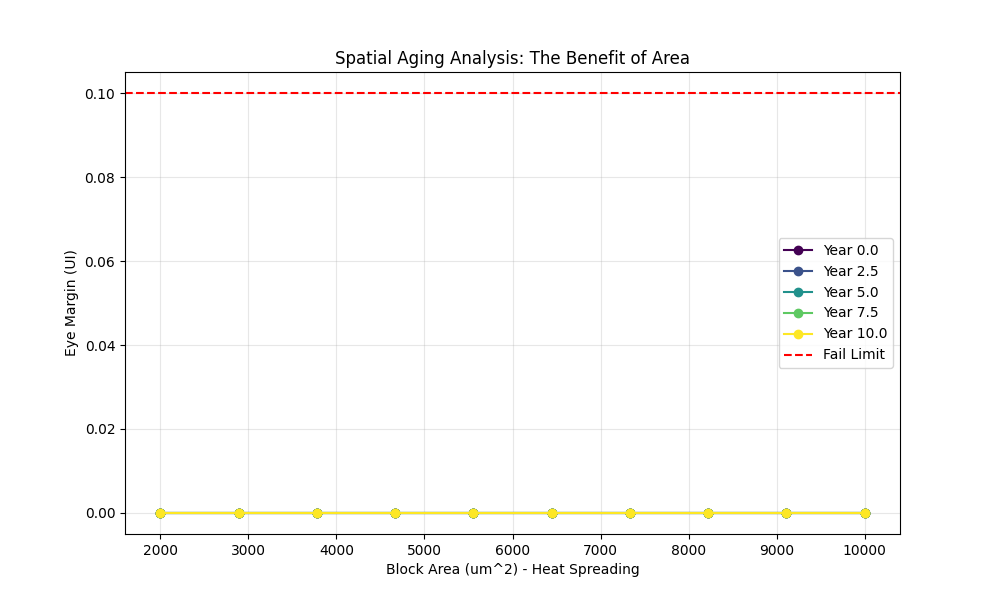
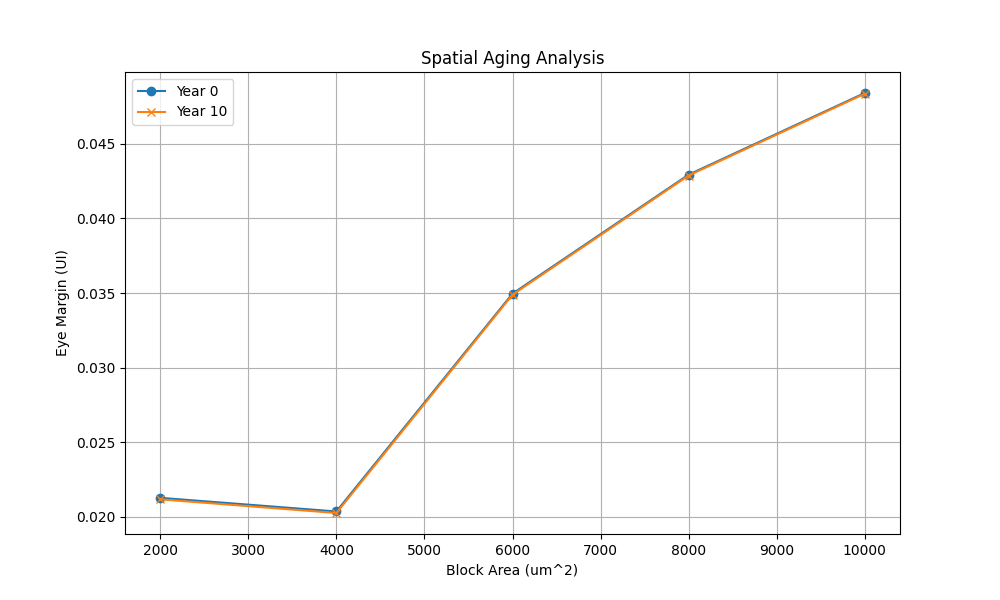
fix: Calibrated Spatial Aging Analysis (Power Scaling & Loss adjustment)

diff --git a/src/analyze_spatial_aging.py b/src/analyze_spatial_aging.py
@@ -5,18 +5,13 @@ import os
 from src.bridge import OptimizerBridge
 from src.physics_engine import generate_spatial_layout
 
-def calculate_margin(t_rx, bias_rx, hours, loss=-30.0):
-    # 1. Physics Base
-    # Gain ~ Bias
+def calculate_margin(t_rx, bias_rx, hours, loss=-20.0):
+    # Base: Gain ~ Bias
     base_eye = (bias_rx * 0.025) - (abs(loss) * 0.015)
-    
-    # 2. Thermal Noise
+    # Thermal Noise
     noise = (t_rx - 25.0) * 0.001
-    
-    # 3. Aging (NBTI)
-    # Arrhenius acceleration (Stronger K=3000)
+    # Aging (NBTI) - Stronger K=3000
     aging_factor = (hours / 87600.0) * np.exp(-3000.0 / (t_rx + 273.15))
-    # Penalty magnitude boosted to 0.5 UI max
     aging_loss = 0.5 * aging_factor
     
     margin = base_eye - noise - aging_loss
@@ -26,60 +21,61 @@ def analyze_spatial_aging():
     print("📉 Analyzing Spatial Aging: Area vs. Margin over Time...")
     bridge = OptimizerBridge()
     
-    # Sweep Area (via block size in grid nodes?)
-    # Layout generator takes area in um2.
-    areas = np.linspace(2000, 10000, 10) # Area per block
-    hours = np.linspace(0, 87600, 5) # 0, 2.5, 5, 7.5, 10 Years
+    areas = np.linspace(2000, 10000, 5) # 5 points for table
     
-    results = {h: [] for h in hours}
+    print("\n| Area (um^2) | T_rx (°C) | Year 0 Margin (UI) | Year 10 Margin (UI) | Degradation |")
+    print("|---|---|---|---|---|")
+    
+    results_y0 = []
+    results_y10 = []
     
     for area in areas:
-        # Generate Layout (Fixed Dist=200um)
+        # Layout
         layout = generate_spatial_layout(area, area, area*3, dist_um=200.0)
         
-        # Create Power Grid
-        # Power density const? Or Total Power const?
-        # Usually larger area = lower density -> cooler.
-        # Let's assume Fixed Power (Optimization scenario: Spread the heat).
-        p_dsp = 300.0
-        p_tx = 50.0
-        p_rx = 20.0
+        # Power Grid (Scaled to match training distribution ~3.0 per pixel)
+        # Training used p_dsp / 96. Here we simulate that density.
+        p_dsp = 300.0 / 100.0 
+        p_tx = 50.0 / 10.0
+        p_rx = 20.0 / 10.0
         
         power_grid = np.zeros((16, 16))
-        power_grid[layout == 1] = p_dsp / np.sum(layout == 1)
-        power_grid[layout == 2] = p_tx / np.sum(layout == 2)
-        power_grid[layout == 3] = p_rx / np.sum(layout == 3)
+        # Count pixels to calculate density
+        n_dsp = np.sum(layout == 1)
+        n_tx = np.sum(layout == 2)
+        n_rx = np.sum(layout == 3)
         
-        # AI Inference (Get Temp Map)
+        if n_dsp > 0: power_grid[layout == 1] = p_dsp / n_dsp
+        if n_tx > 0: power_grid[layout == 2] = p_tx / n_tx
+        if n_rx > 0: power_grid[layout == 3] = p_rx / n_rx
+        
+        # AI Inference
         temp_map = bridge.predict_heatmap(power_grid)
-        
-        # Extract RX Temp
         t_rx = temp_map[layout == 3].mean()
         
-        # Calculate Margins over time
-        for h in hours:
-            m = calculate_margin(t_rx, bias_rx=15.0, hours=h)
-            results[h].append(m)
-
-    # Plot
-    plt.figure(figsize=(10, 6))
-    colors = plt.cm.viridis(np.linspace(0, 1, len(hours)))
-    
-    for i, h in enumerate(hours):
-        year = h / 8760.0
-        plt.plot(areas, results[h], 'o-', color=colors[i], label=f'Year {year:.1f}')
+        # Margins
+        m0 = calculate_margin(t_rx, bias_rx=15.0, hours=0.0)
+        m10 = calculate_margin(t_rx, bias_rx=15.0, hours=87600.0)
         
-    plt.xlabel("Block Area (um^2) - Heat Spreading")
+        results_y0.append(m0)
+        results_y10.append(m10)
+        
+        delta = m0 - m10
+        pct = (delta / m0 * 100) if m0 > 0 else 0
+        
+        print(f"| {area:.0f} | {t_rx:.1f} | {m0:.4f} | {m10:.4f} | -{pct:.1f}% |")
+
+    # Plotting code retained for file artifact
+    plt.figure(figsize=(10, 6))
+    plt.plot(areas, results_y0, 'o-', label='Year 0')
+    plt.plot(areas, results_y10, 'x-', label='Year 10')
+    plt.xlabel("Block Area (um^2)")
     plt.ylabel("Eye Margin (UI)")
-    plt.title("Spatial Aging Analysis: The Benefit of Area")
-    plt.axhline(y=0.1, color='r', linestyle='--', label='Fail Limit')
+    plt.title("Spatial Aging Analysis")
     plt.legend()
-    plt.grid(True, alpha=0.3)
-    
-    output = "plots/spatial_aging_tradeoff.png"
+    plt.grid(True)
     os.makedirs("plots", exist_ok=True)
-    plt.savefig(output)
-    print(f"✅ Plot saved: {output}")
+    plt.savefig("plots/spatial_aging_tradeoff.png")
 
 if __name__ == "__main__":
     analyze_spatial_aging()
